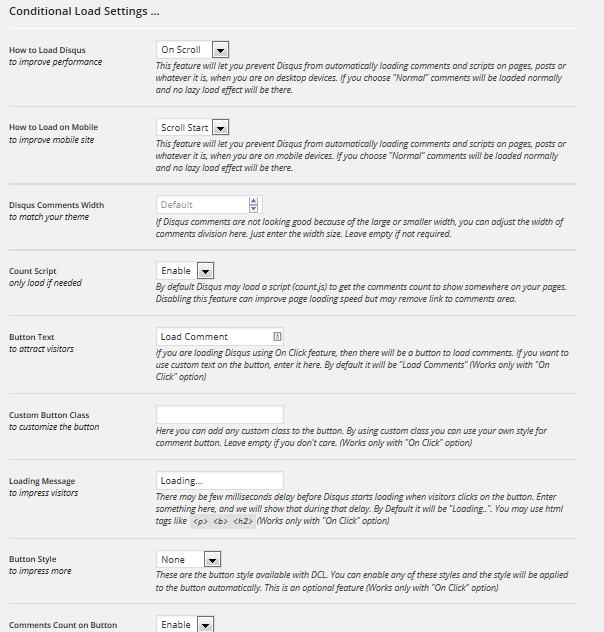
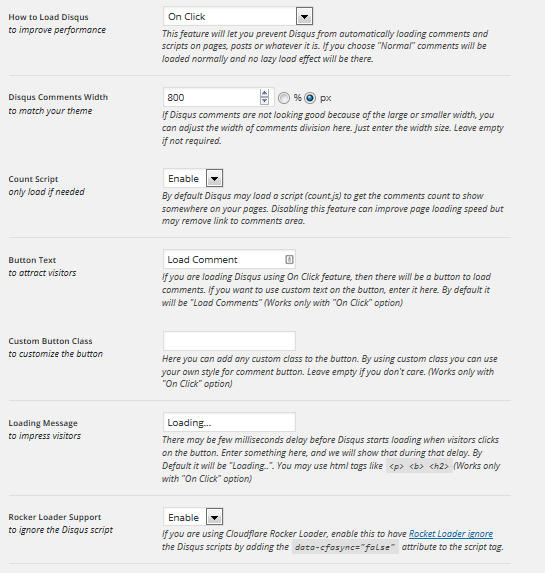
Added new feature
Added option to choose comment div width in % and pixel.
Added option to make CloudFlair Rocket Loader ignore the script.

diff --git a/public/js/dcl-onscroll-start.js b/public/js/dcl-onscroll-start.js
@@ -1,0 +1,65 @@
+(function($) {
+    'use strict';
+
+    /**
+     * All of the code for our admin-specific JavaScript source
+     * should reside in this file.
+     *
+     * Note that this assume you're going to use jQuery, so it prepares
+     * the $ function reference to be used within the scope of this
+     * function.
+     *
+     * From here, we are able to define handlers for when the DOM is
+     * ready:
+     *
+     * $(function() {
+     *
+     * });
+     *
+     * Or when the window is loaded:
+     *
+     * $( window ).load(function() {
+     *
+     * });
+     *
+     * ...and so on.
+     */
+    var disqus_shortname = jQuery("#disqus_forum_url").val();
+	if (typeof ds_loaded == "undefined") {
+		var ds_loaded = false; //To track loading only once on a page.
+	}
+	
+	/**
+	 * Disqus comments 
+	 *
+	 */
+	function loadDisqus() {
+		var disqus_div = jQuery("#disqus_thread"); //The ID of the Disqus DIV tag
+		var top = disqus_div.offset().top;
+		var disqus_data = disqus_div.data();
+		if ( !ds_loaded && jQuery(window).scrollTop() + jQuery(window).height() > top ) {
+			ds_loaded = true;
+			for (var key in disqus_data) {
+				if (key.substr(0,6) == "disqus") {
+					window["disqus_" + key.replace("disqus","").toLowerCase()] = disqus_data[key];
+				}
+			}
+			
+			var dsq = document.createElement("script");
+			dsq.type = "text/javascript";
+			dsq.async = true;
+			dsq.src = "'.$base.'" + window.disqus_shortname + ".disqus.com/embed.js";
+			jQuery("#dcl-hidden-div").html("'.$dcl_gnrl_options["dcl_message"].'");
+			(document.getElementsByTagName("head")[0] || document.getElementsByTagName("body")[0]).appendChild(dsq);
+		}    
+	}
+
+	jQuery(function () {
+		var disqus_div = jQuery("#disqus_thread");
+		if(document.body.scrollHeight < window.innerHeight){
+			loadDisqus();
+		} else if (disqus_div.size() > 0) {
+			jQuery(window).scroll(loadDisqus);      
+		} 
+	});
+})(jQuery);

diff --git a/public/js/dcl-onscroll.js b/public/js/dcl-onscroll.js
@@ -1,0 +1,65 @@
+(function($) {
+    'use strict';
+
+    /**
+     * All of the code for our admin-specific JavaScript source
+     * should reside in this file.
+     *
+     * Note that this assume you're going to use jQuery, so it prepares
+     * the $ function reference to be used within the scope of this
+     * function.
+     *
+     * From here, we are able to define handlers for when the DOM is
+     * ready:
+     *
+     * $(function() {
+     *
+     * });
+     *
+     * Or when the window is loaded:
+     *
+     * $( window ).load(function() {
+     *
+     * });
+     *
+     * ...and so on.
+     */
+    var disqus_shortname = jQuery("#disqus_forum_url").val();
+	if (typeof ds_loaded == "undefined") {
+		var ds_loaded = false; //To track loading only once on a page.
+	}
+	
+	/**
+	 * Disqus comments 
+	 *
+	 */
+	function loadDisqus() {
+		var disqus_div = jQuery("#disqus_thread"); //The ID of the Disqus DIV tag
+		var top = disqus_div.offset().top;
+		var disqus_data = disqus_div.data();
+		if ( !ds_loaded && jQuery(window).scrollTop() + jQuery(window).height() > top ) {
+			ds_loaded = true;
+			for (var key in disqus_data) {
+				if (key.substr(0,6) == "disqus") {
+					window["disqus_" + key.replace("disqus","").toLowerCase()] = disqus_data[key];
+				}
+			}
+			
+			var dsq = document.createElement("script");
+			dsq.type = "text/javascript";
+			dsq.async = true;
+			dsq.src = "//" + window.disqus_shortname + ".disqus.com/embed.js";
+			//jQuery("#dcl-hidden-div").html("'.$dcl_gnrl_options["dcl_message"].'");
+			(document.getElementsByTagName("head")[0] || document.getElementsByTagName("body")[0]).appendChild(dsq);
+		}    
+	}
+
+	jQuery(function () {
+		var disqus_div = jQuery("#disqus_thread");
+		if(document.body.scrollHeight < window.innerHeight){
+			loadDisqus();
+		} else if (disqus_div.size() > 0) {
+			jQuery(window).scroll(loadDisqus);      
+		} 
+	});
+})(jQuery);

diff --git a/public/js/dcl-onclick.js b/public/js/dcl-onclick.js
@@ -1,0 +1,62 @@
+(function($) {
+    'use strict';
+
+    /**
+     * All of the code for our admin-specific JavaScript source
+     * should reside in this file.
+     *
+     * Note that this assume you're going to use jQuery, so it prepares
+     * the $ function reference to be used within the scope of this
+     * function.
+     *
+     * From here, we are able to define handlers for when the DOM is
+     * ready:
+     *
+     * $(function() {
+     *
+     * });
+     *
+     * Or when the window is loaded:
+     *
+     * $( window ).load(function() {
+     *
+     * });
+     *
+     * ...and so on.
+     */
+    var disqus_shortname = jQuery("#disqus_forum_url").val();
+	if (typeof ds_loaded == "undefined") {
+		var ds_loaded = false; //To track loading only once on a page.
+	}
+	
+	/**
+	 * Disqus comments 
+	 *
+	 */
+	function loadDisqus() {
+		var disqus_div = jQuery("#disqus_thread"); //The ID of the Disqus DIV tag
+		var top = disqus_div.offset().top;
+		var disqus_data = disqus_div.data();
+		if ( !ds_loaded && jQuery(window).scrollTop() + jQuery(window).height() > top ) {
+			ds_loaded = true;
+			for (var key in disqus_data) {
+				if (key.substr(0,6) == "disqus") {
+					window["disqus_" + key.replace("disqus","").toLowerCase()] = disqus_data[key];
+				}
+			}
+			
+			$(function() {
+				var dsq = document.createElement('script'); dsq.type = 'text/javascript';
+				dsq.async = true;
+				dsq.src = '//' + disqus_shortname + '.' + '".DISQUS_DOMAIN."' + '/' + 'embed' + '.js' + '?pname=wordpress&pver=".DISQUS_VERSION."';
+				//jQuery("#dcl-hidden-div").html("'.$dcl_gnrl_options["dcl_message"].'");
+				(document.getElementsByTagName('head')[0] || document.getElementsByTagName('body')[0]).appendChild(dsq);
+			});
+		}    
+	}
+
+	jQuery(function () {
+		jQuery("#dcl_comment_btn").click(loadDisqus);
+	});
+	
+})(jQuery);

diff --git a/public/js/dcl-normal.js b/public/js/dcl-normal.js
@@ -1,0 +1,20 @@
+(function($) {
+    'use strict';
+
+	/**
+	 * Normal Disqus comments script.
+	 * This script will load Disqus comments along with your page load.
+	 * This is not a lazy load script
+     */
+    /* <![CDATA[ */
+	var ds_loaded = true;
+	var dcl_loaded = 1;
+	(function() {
+		var dsq = document.createElement('script'); dsq.type = 'text/javascript';
+		dsq.async = true;
+		dsq.src = '//' + disqus_shortname + '.' + '".DISQUS_DOMAIN."' + '/' + 'embed' + '.js' + '?pname=wordpress&pver=".DISQUS_VERSION."';
+		(document.getElementsByTagName('head')[0] || document.getElementsByTagName('body')[0]).appendChild(dsq);
+	})();
+	/* ]]> */
+
+})(jQuery);

diff --git a/admin/partials/dcl-admin-general-tab.php b/admin/partials/dcl-admin-general-tab.php
@@ -24,7 +24,9 @@ if ( ! defined( 'WPINC' ) ) {
 			<tr valign="top">
 				<th scope="row"><label>Disqus Comments Width<br><span class="description thin">to match your theme</span></label></th>
 					<td>
-						<input placeholder="Default" type="number" name="dcl_gnrl_options[dcl_div_width]" value="<?php echo $options['dcl_div_width']; ?>" size="20"><br/>
+						<input placeholder="Default" type="number" name="dcl_gnrl_options[dcl_div_width]" value="<?php echo $options['dcl_div_width']; ?>" size="20">
+						<input type="radio" name="dcl_gnrl_options[dcl_div_width_type]" <?php checked($options['dcl_div_width_type'], '%'); ?> value="%">%
+						<input type="radio" name="dcl_gnrl_options[dcl_div_width_type]" <?php checked($options['dcl_div_width_type'], 'px'); ?> value="px">px<br/>
 						<span class="description thin">If Disqus comments are not looking good because of the large or smaller width, you can adjust the width of comments division here. Just enter the width size. Leave empty if not required.</span>
 					</td>
 			</tr>
@@ -59,6 +61,16 @@ if ( ! defined( 'WPINC' ) ) {
 					<td>
 						<input placeholder="Loading.." type="text" name="dcl_gnrl_options[dcl_message]" value="<?php echo $options['dcl_message']; ?>" size="20"><br/>
 						<span class="description thin">There may be few milliseconds delay before Disqus starts loading when visitors clicks on the button. Enter something here, and we will show that during that delay. By Default it will be "Loading..". You may use html tags like <code>&lt;p&gt; &lt;b&gt; &lt;h2&gt;</code>(Works only with "On Click" option)</span>
+					</td>
+			</tr>
+			<tr valign="top">
+				<th scope="row"><label>Rocker Loader Support<br><span class="description thin">to ignore the Disqus script</span></label></th>
+					<td>
+						<select id="dcl_cfasync" class="select" name="dcl_gnrl_options[dcl_cfasync]">
+							<option value="1" <?php selected( $options['dcl_cfasync'], 1 ); ?>>Enable</option>
+							<option value="0" <?php selected( $options['dcl_cfasync'], 0 ); ?>>Disable</option>
+						</select><br/>
+						<span class="description thin">If you are using Cloudflare Rocker Loader, enable this to have <a href="https://support.cloudflare.com/hc/en-us/articles/200169436-How-can-I-have-Rocket-Loader-ignore-my-script-s-in-Automatic-Mode-" target="_blank">Rocket Loader ignore</a> the Disqus scripts by adding the <code>data-cfasync="false"</code> attribute to the script tag.</span>
 					</td>
 			</tr>
 		</div>

diff --git a/public/dcl-functions.php b/public/dcl-functions.php
@@ -23,6 +23,7 @@ if ( ! defined( 'WPINC' ) ) {
 	 * @var      string    $dcl_gnrl_options    Options values from database.
 	 */
 	$dcl_gnrl_options = get_option('dcl_gnrl_options');
+	$dcl_cfasync = ( !empty($dcl_gnrl_options['dcl_cfasync']) && $dcl_gnrl_options['dcl_cfasync'] == 1 ) ? 'data-cfasync="false"' : '';
 		
 	/**
 	* Get Disqus Conditional Code.
@@ -37,10 +38,11 @@ if ( ! defined( 'WPINC' ) ) {
 	function dcl_conditional_code() {
 		
 		global $dcl_gnrl_options;
+		global $dcl_cfasync;
 		
 		$base = is_ssl() ? 'https://' : 'http://';
 
-		$script = '<script type="text/javascript">
+		$script = '<script '.$dcl_cfasync.' type="text/javascript">
 					var disqus_shortname = "'.strtolower(get_option("disqus_forum_url")).'";
 					if (typeof ds_loaded == "undefined") {
 						var ds_loaded = false; //To track loading only once on a page.
@@ -140,8 +142,9 @@ if ( ! defined( 'WPINC' ) ) {
 	*/
 	function dcl_disqus_normal_code() {
 		
+		global $dcl_cfasync;
 		$normal = "";
-		$normal = "<script type='text/javascript'>
+		$normal = "<script ".$dcl_cfasync." type='text/javascript'>
 					/* <![CDATA[ */
 					var ds_loaded = true;
 					var dcl_loaded = 1;
@@ -170,8 +173,10 @@ if ( ! defined( 'WPINC' ) ) {
 	* @echo		$script		Normal disqus code with hash checking.
 	*/
 	function dcl_disqus_hash_load() {
+		
+		global $dcl_cfasync;
 		$script = "";
-		$script = "<script type='text/javascript'>
+		$script = "<script  ".$dcl_cfasync." type='text/javascript'>
 					/* <![CDATA[ */
 					var hash = window.location.hash;
 					if(hash!==''){
@@ -234,7 +239,7 @@ if ( ! defined( 'WPINC' ) ) {
 		"Butterfly","Twitturls","Me.dium","Twiceler");
 	 
 		foreach($botlist as $bot){
-			if(strpos($_SERVER['HTTP_USER_AGENT'],$bot)!==false)
+			if( isset( $_SERVER['HTTP_USER_AGENT'] ) && strpos($_SERVER['HTTP_USER_AGENT'], $bot )!== false )
 			return true;	// Is a bot
 		}
 	 

diff --git a/includes/class-dcl-activator.php b/includes/class-dcl-activator.php
@@ -35,10 +35,12 @@ class DCL_Activator {
 		
 		$dcl_type			= self::transfer( 'js_type', 'dcl_type', 'scroll' );
 		$dcl_width			= self::transfer( '', 'dcl_div_width', '');
+		$dcl_div_width_type	= self::transfer( 'dcl_div_width_type', 'dcl_div_width_type', 'px');
 		$dcl_button			= self::transfer( 'js_button', 'dcl_btn_txt', 'Load Comments' );
 		$dcl_class			= self::transfer( 'js_class', 'dcl_btn_class', '' );
 		$dcl_message		= self::transfer( 'js_message', 'dcl_message', 'Loading...' );
 		$dcl_count_old		= self::transfer( 'js_count_disable', 'dcl_count_disable', 'yes' );
+		$dcl_cfasync		= self::transfer( 'dcl_cfasync', 'dcl_cfasync', 0 );
 
 
 		// Count disable value structure changed. So we are transfering to new structure
@@ -48,10 +50,12 @@ class DCL_Activator {
 		$newGnrlOptions = array( 
 					'dcl_type' => $dcl_type,
 					'dcl_div_width' => $dcl_width,
+					'dcl_div_width_type' => $dcl_div_width_type,
 					'dcl_count_disable' => $dcl_count_new,
 					'dcl_btn_txt' => $dcl_button,
 					'dcl_btn_class' => $dcl_class,
-					'dcl_message' => $dcl_message
+					'dcl_message' => $dcl_message,
+					'dcl_cfasync' => $dcl_cfasync
 				);
 				
 		update_option( 'dcl_gnrl_options', $newGnrlOptions );
@@ -81,7 +85,7 @@ class DCL_Activator {
 		if( get_option( 'dcl_gnrl_options' ) ) {
 			$dcl_option = get_option( 'dcl_gnrl_options' );
 			// If exists, then take that option value
-			$fresh = $dcl_option[$new];
+			$fresh = (!empty($dcl_option[$new])) ? $dcl_option[$new] : $fresh;
 			// Check if old value is available for the same option
 			if(get_option( $old )) {
 				// If available delete it, as we are moving to new settings

diff --git a/public/dcl-comments.php b/public/dcl-comments.php
@@ -31,13 +31,14 @@ defined('ABSPATH') or die("I am really helpless if you call me directly. Serious
 	}
 	
 	$dcl_gnrl_options = get_option('dcl_gnrl_options');
+	$dcl_div_width_type	= ( !empty($dcl_gnrl_options['dcl_div_width_type']) && $dcl_gnrl_options['dcl_div_width_type'] == 'px' ) ? 'px' : '%';
 	$dcl_div_style = '';
 	
 	global $post;
 	global $comments;
 	// Check if custom div width is enabled.
 	if( $dcl_gnrl_options['dcl_div_width'] !=='') {
-		$dcl_div_style = 'style="width: '.$dcl_gnrl_options["dcl_div_width"].'px; margin:0 auto;"';
+		$dcl_div_style = 'style="width: '.$dcl_gnrl_options["dcl_div_width"].$dcl_div_width_type.'; margin:0 auto;"';
 	}
 	
 	/*
@@ -69,7 +70,7 @@ defined('ABSPATH') or die("I am really helpless if you call me directly. Serious
 		$dcl_final_btn_class = $dcl_gnrl_options['dcl_btn_class'];
 	
 	?>
-		<div id='dcl-hidden-div' align='center'>
+		<div id='dcl-hidden-div' style='text-align: center;'>
 		<button data-disqus-url="<?php echo the_permalink(); ?>" id='dcl_comment_btn' class="<?php echo $dcl_final_btn_class; ?>" style="margin-bottom:20px;margin-top:20px;"><?php echo $dcl_gnrl_options['dcl_btn_txt']; ?></button>
 		</div>
 		

diff --git a/disqus-conditional-load.php b/disqus-conditional-load.php
@@ -1,9 +1,9 @@
 <?php
 /**
  * Plugin Name:       Disqus Conditional Load
- * Plugin URI:        http://dclwp.com
+ * Plugin URI:        https://dclwp.com
  * Description:       Advanced version of Disqus plugin with much more features like <strong>lazy load, shortcode</strong> etc.
- * Version:           10.1.1
+ * Version:           10.1.3
  * Author:            Joel James
  * Author URI:        http://www.joelsays.com/
  * License:           GPL-2.0+
@@ -19,7 +19,7 @@ if ( ! defined( 'WPINC' ) ) {
 
 // Defines plugin constants
 if(!defined('DCL_VERSION')) {
-	define( 'DCL_VERSION', '10.1.1' );
+	define( 'DCL_VERSION', '10.1.3' );
 }
 if(!defined('DCLPATH')){
 	define( 'DCLPATH', home_url( PLUGINDIR . '/disqus-conditional-load/' ) );

diff --git a/includes/class-dcl.php b/includes/class-dcl.php
@@ -69,7 +69,7 @@ class DCL {
 	public function __construct() {
 
 		$this->plugin_name = 'disqus-conditional-load';
-		$this->version = '10.1.1';
+		$this->version = '10.1.3';
 		$this->dcl_gnrl_options = get_option( 'dcl_gnrl_options' );
 		$this->load_dependencies();
 		$this->define_admin_hooks();
